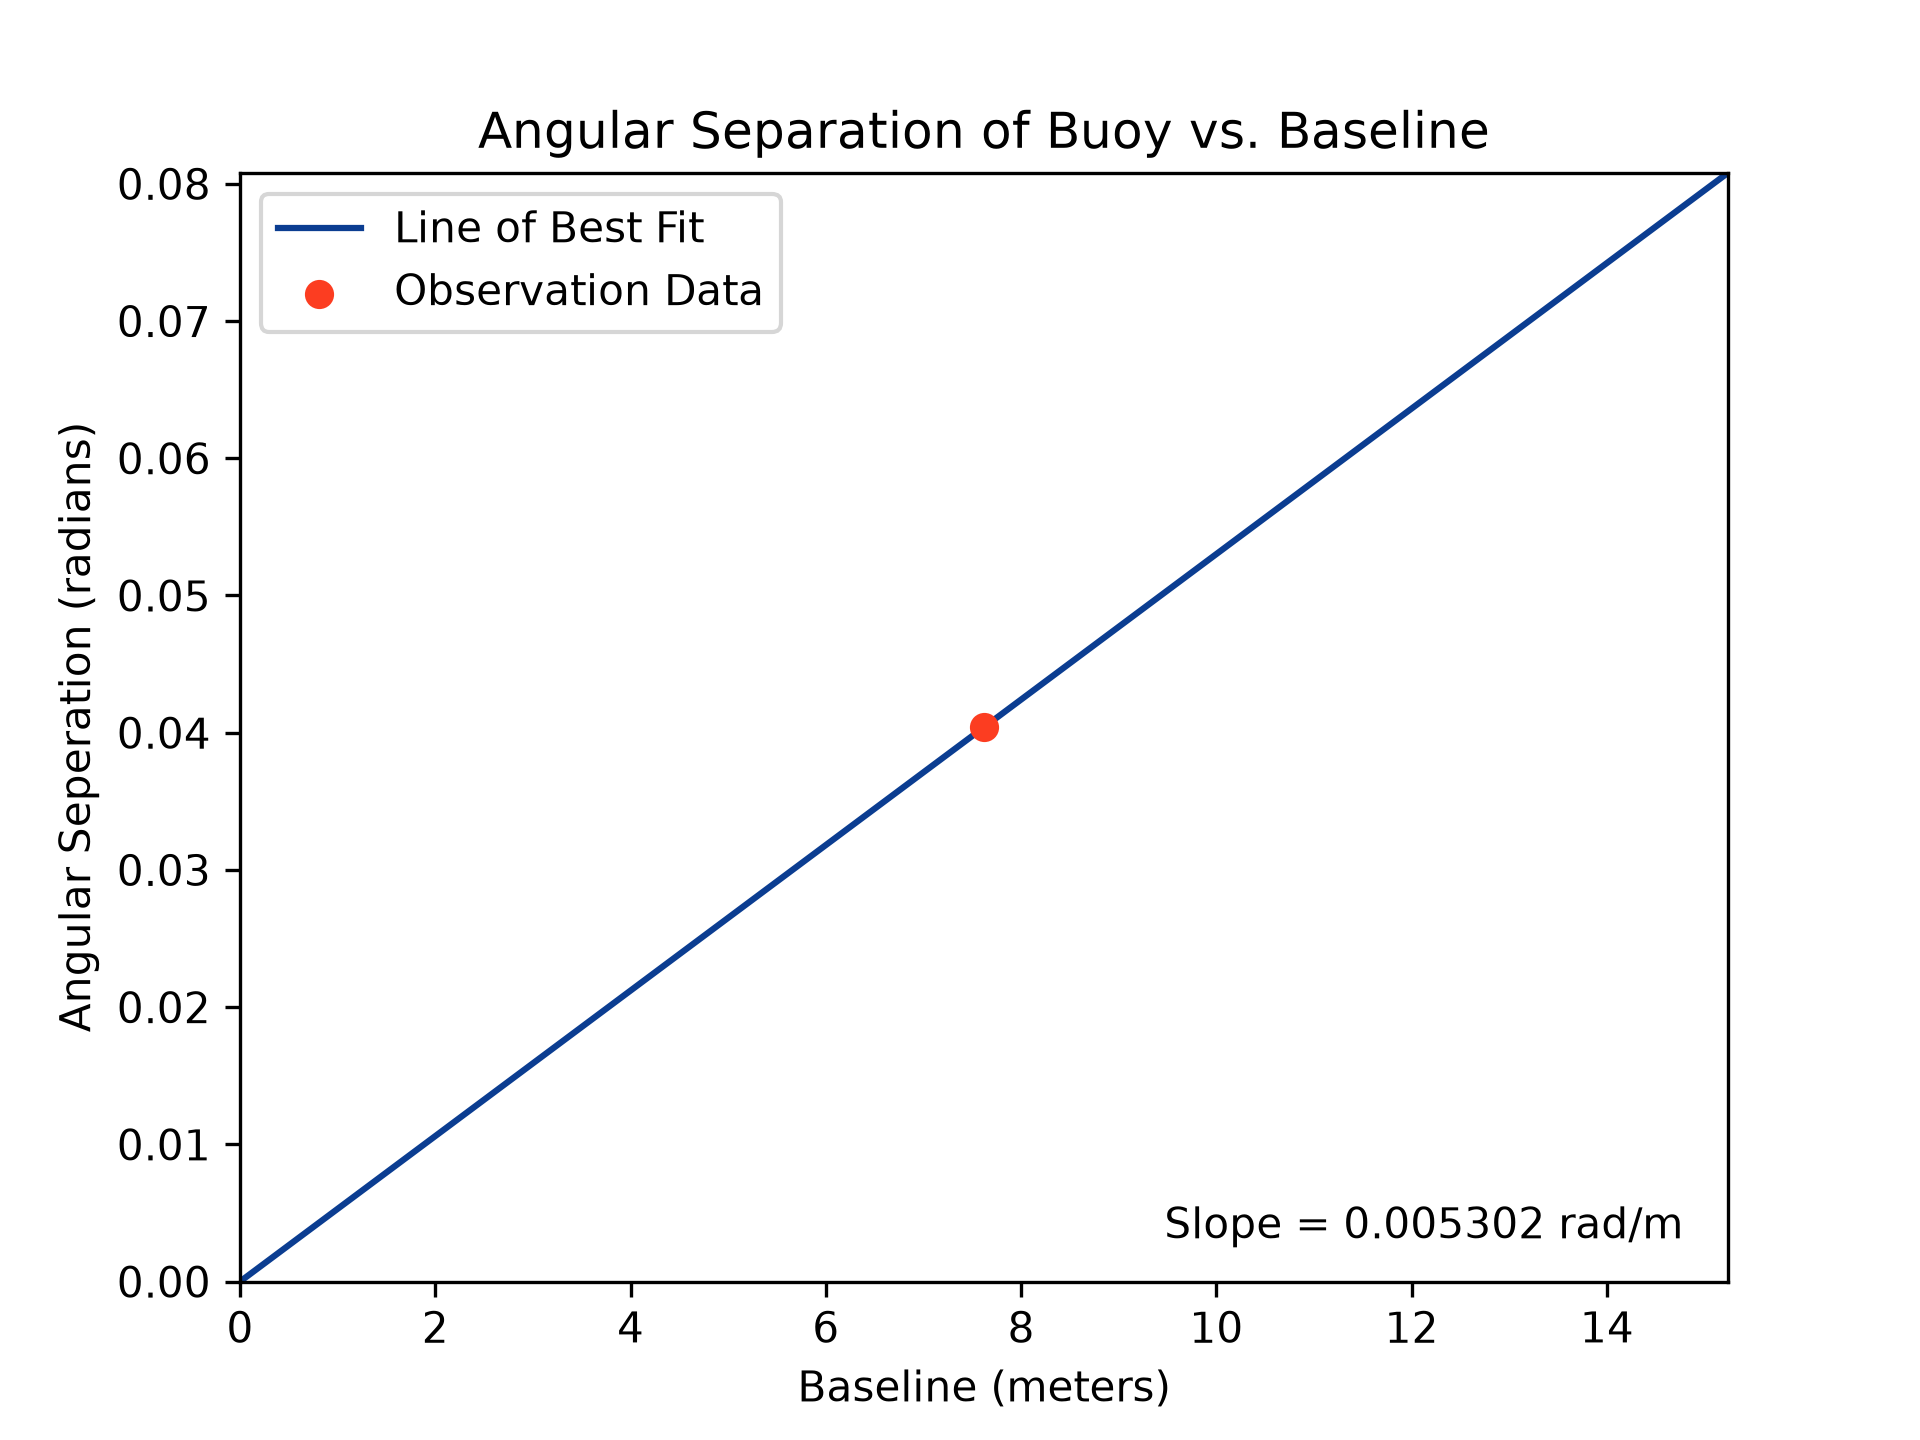
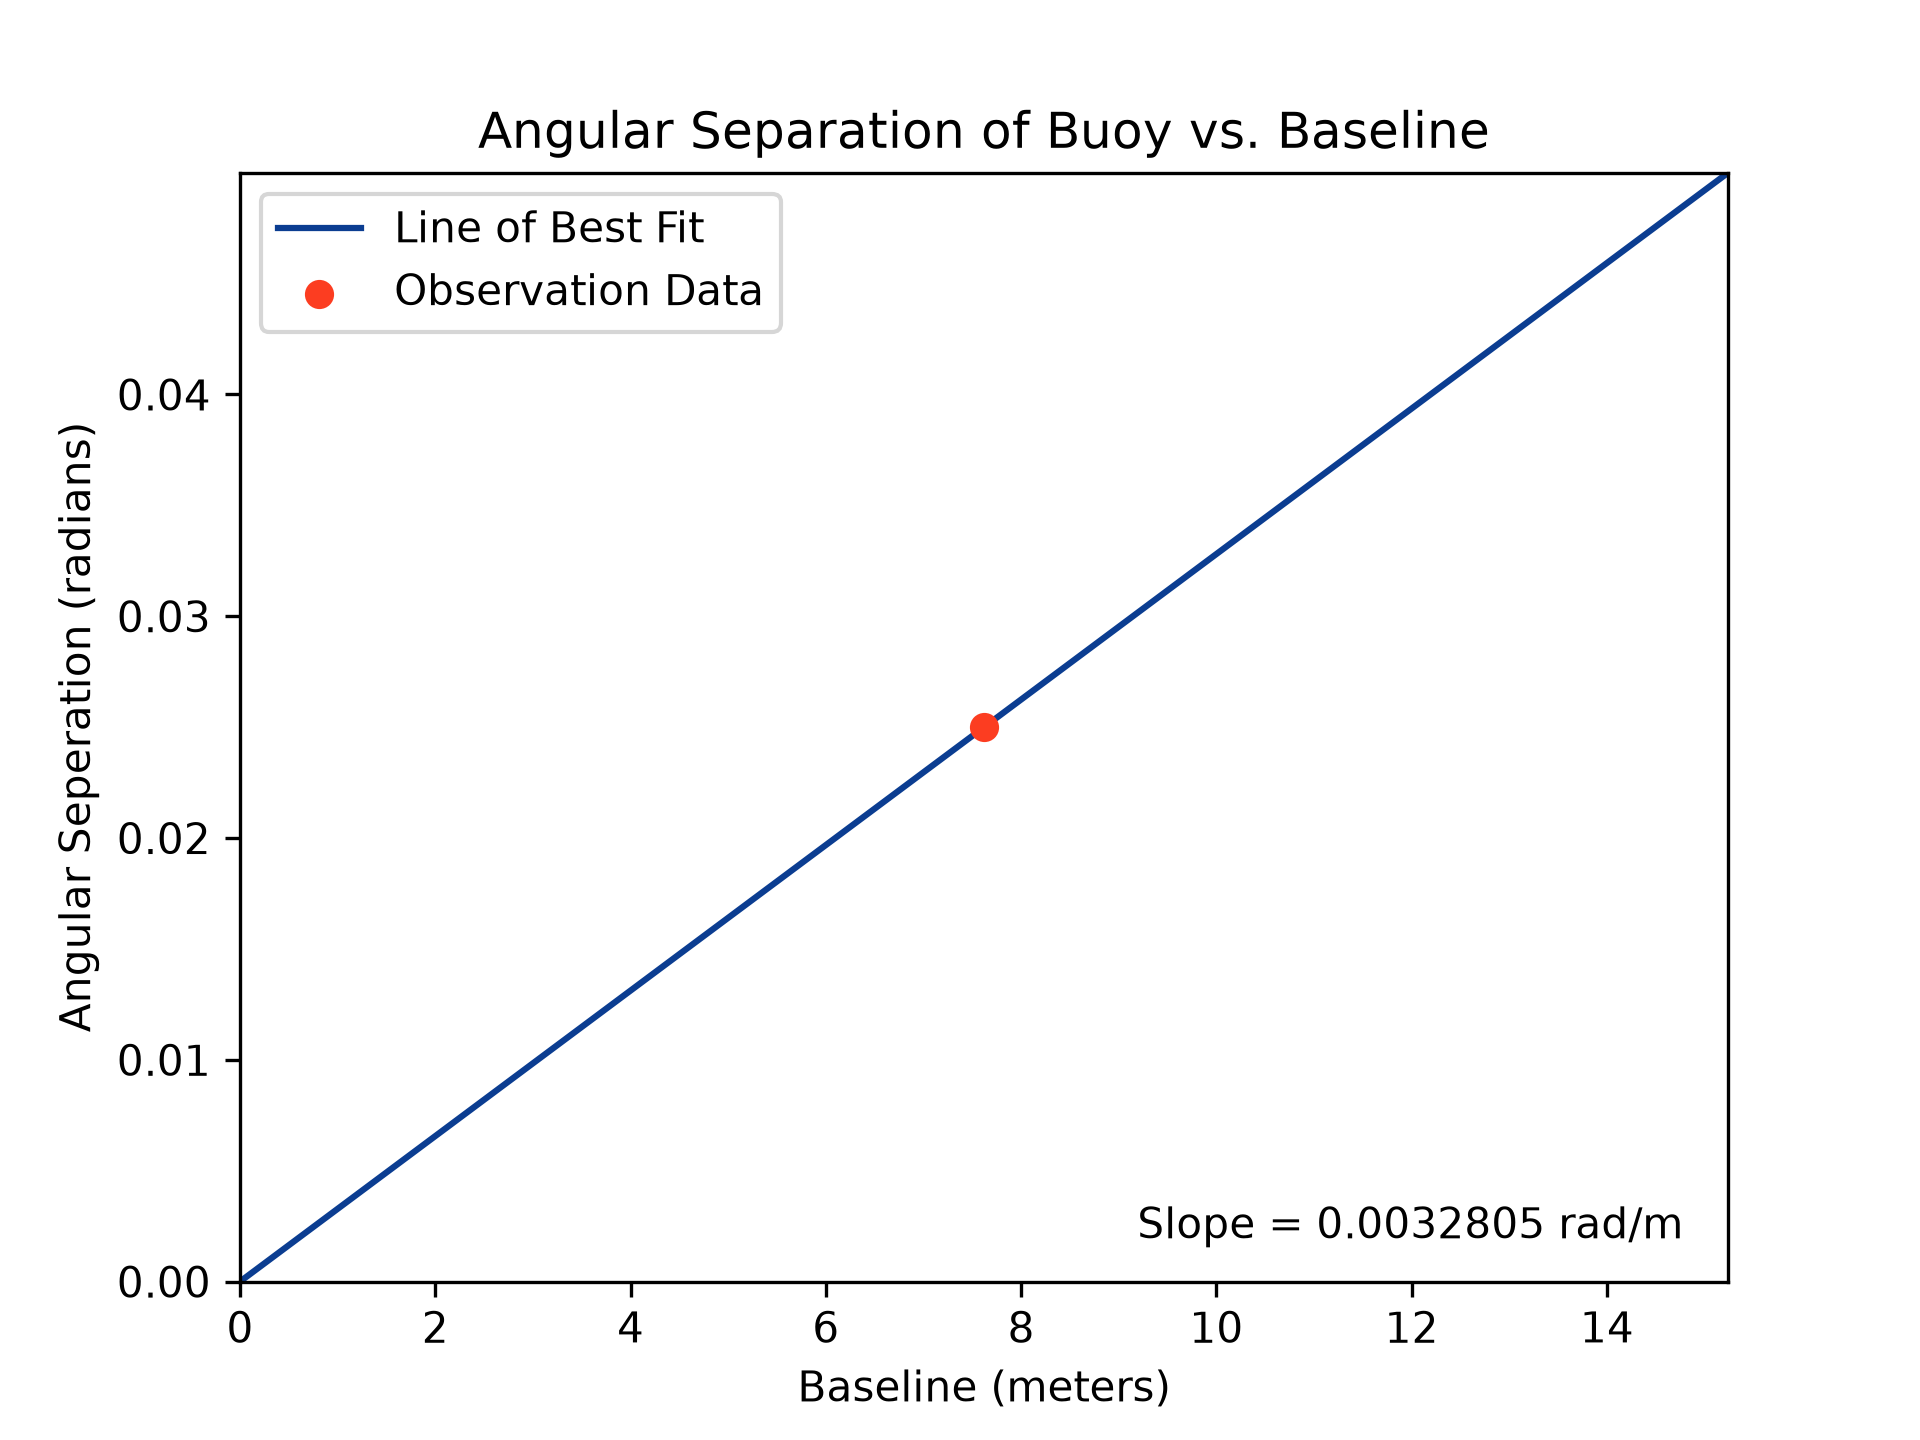
Lab 1: final tweaks

diff --git a/Lab1/analysis.py b/Lab1/analysis.py
@@ -21,9 +21,13 @@ Ny = 3456.0 # image y pixel count, px, canon camera
 
 w = D / (math.sqrt(Nx ** 2 + Ny ** 2)) # pixel width, mm/px
 
+wOverride = 4.3e-3 # pixel width override for canon camera, mm/px
+if wOverride is not None:
+    w = wOverride
+
 a = w / l # angular size/px, rad/px
 
-object = "ship"
+object = "buoy"
 
 with open(object + ".csv") as data:
     rows = list(csv.DictReader(data))
@@ -52,7 +56,7 @@ plot.plot(xFit, [slope * x for x in xFit], color = "#0b3d91", label = "Line of B
 plot.scatter(x1, y1, color = "#FC3D21", label = "Observation Data", zorder = 2)
 
 plot.xlabel("Baseline (meters)")
-plot.ylabel("Angular Seperation (radians)")
+plot.ylabel("Angular Separation (radians)")
 plot.title(f"Angular Separation of {object[0].upper() + object[1:]} vs. Baseline")
 
 plot.axis((0.0, xMax, 0.0, yMax))
